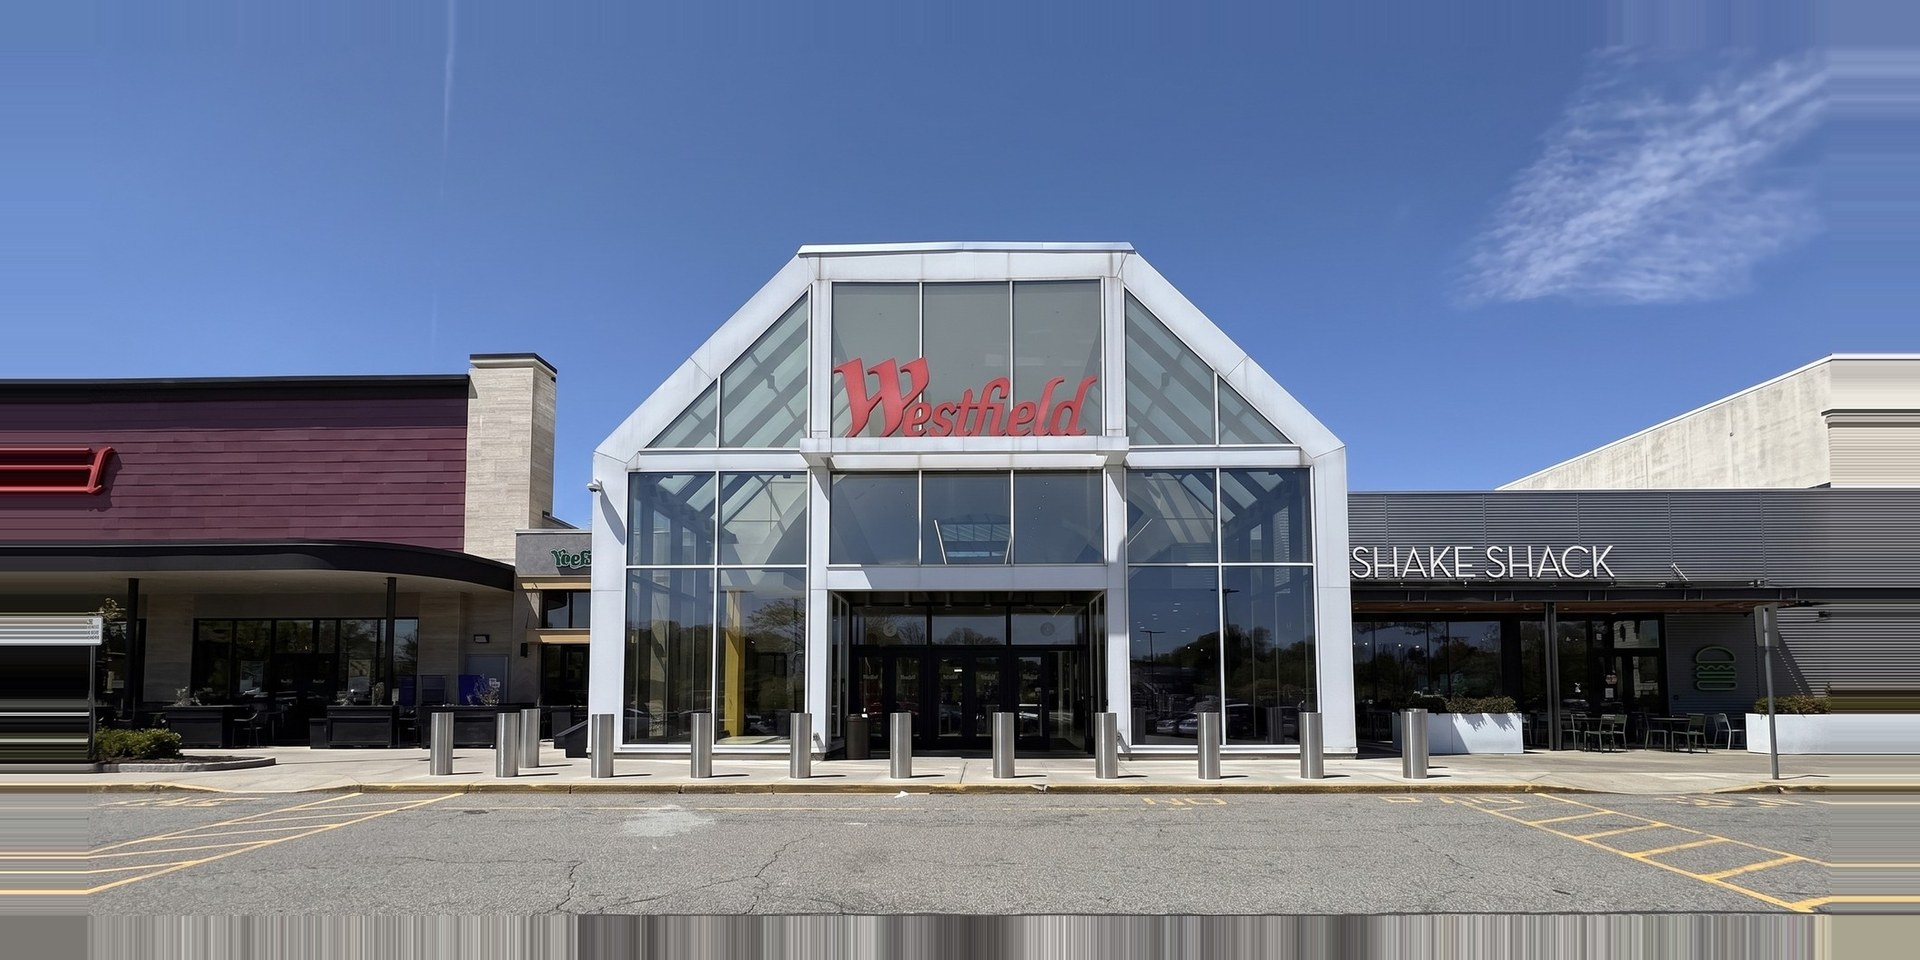
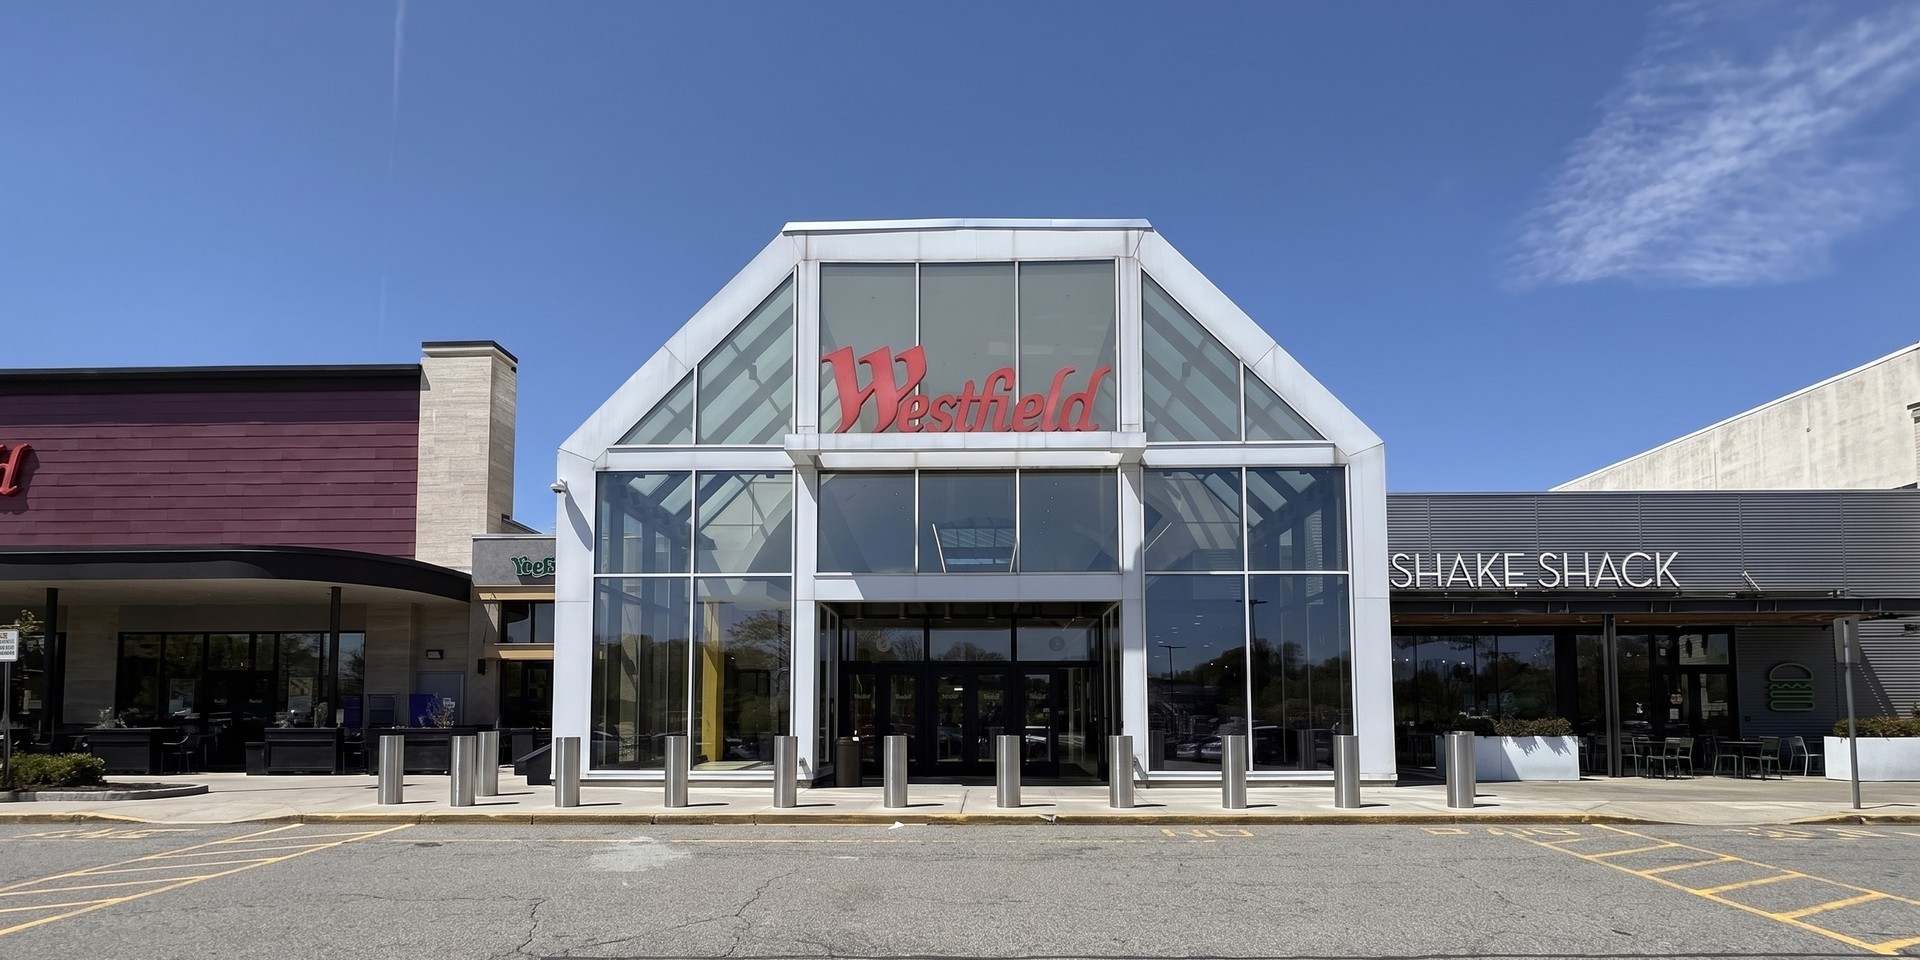
Kill city-hero blur pillarbox; swap Cherry Hill; scrub $1.4M hail mock
Joe 2026-09-29 ~8:14 AM ET screenshots: smudged hero sides on CH/Philly/TT/WC,
bad Cherry Hill municipal office, and $1.4M hail board still on live PA (sitewide).

- bake_city_hero_establishing.py: true cover crop only (no Gaussian blur-fill)
- Cherry Hill hero → South Jersey residential suburb (?v=cover1)
- Rebake Philly/TT/WC/Englewood/Hackensack/Paramus edge-to-edge cover
- Mock hail audit: zero HTML/JS $1.4M hail refs; rotators approved-v09/v03/v01 only
- Archive leftover orig-style-fire-1.4m assets from active settlement-mocks
- STATUS-HAIL-HERO-20260929.md notes live HubSpot 8-page hail hits (CMS auth 401)

diff --git a/locations/paramus.html b/locations/paramus.html
@@ -507,8 +507,8 @@
 
   <section class="hero" id="heroRotator" aria-label="Paramus public adjusters hero">
     <div class="hero-slides" aria-hidden="true">
-      <img class="is-active" src="paramus/refs/gsp-better-wide-day.jpg?v=soft3" alt="" />
-      <img src="paramus/refs/gsp-better-golden-hour.jpg?v=soft3" alt="" />
+      <img class="is-active" src="paramus/refs/gsp-better-wide-day.jpg?v=cover1" alt="" />
+      <img src="paramus/refs/gsp-better-golden-hour.jpg?v=cover1" alt="" />
     </div>
     <div class="hero-inner">
       <h1>Public Adjusters in <span class="city">Paramus</span></h1>

diff --git a/locations/paramus/index.html b/locations/paramus/index.html
@@ -507,8 +507,8 @@
 
   <section class="hero" id="heroRotator" aria-label="Paramus public adjusters hero">
     <div class="hero-slides" aria-hidden="true">
-      <img class="is-active" src="refs/gsp-better-wide-day.jpg?v=soft3" alt="" />
-      <img src="refs/gsp-better-golden-hour.jpg?v=soft3" alt="" />
+      <img class="is-active" src="refs/gsp-better-wide-day.jpg?v=cover1" alt="" />
+      <img src="refs/gsp-better-golden-hour.jpg?v=cover1" alt="" />
     </div>
     <div class="hero-inner">
       <h1>Public Adjusters in <span class="city">Paramus</span></h1>

diff --git a/locations/philadelphia.html b/locations/philadelphia.html
@@ -476,7 +476,7 @@
     </div>
   </header>
 
-  <section class="hero" style="background-image:url('philadelphia/hero-temp-philly-skyline.jpg?v=soft3')" aria-label="Philadelphia public adjusters hero">
+  <section class="hero" style="background-image:url('philadelphia/hero-temp-philly-skyline.jpg?v=cover1')" aria-label="Philadelphia public adjusters hero">
     <div class="hero-inner">
       <h1>Public Adjusters in <span class="city">Philadelphia</span></h1>
       <p class="hero-sub">Your insurance has an adjuster, so should you!</p>

diff --git a/locations/tarrytown.html b/locations/tarrytown.html
@@ -476,7 +476,7 @@
     </div>
   </header>
 
-  <section class="hero" style="background-image:url('tarrytown/hero-temp-marina-tappan-zee-day.jpg?v=soft3')" aria-label="Tarrytown public adjusters hero">
+  <section class="hero" style="background-image:url('tarrytown/hero-temp-marina-tappan-zee-day.jpg?v=cover1')" aria-label="Tarrytown public adjusters hero">
     <div class="hero-inner">
       <h1>Public Adjusters in <span class="city">Tarrytown</span></h1>
       <p class="hero-sub">Your insurance has an adjuster, so should you!</p>

diff --git a/locations/westchester.html b/locations/westchester.html
@@ -476,7 +476,7 @@
     </div>
   </header>
 
-  <section class="hero" style="background-image:url('westchester/hero-temp-downtown-from-ne.jpg?v=soft3')" aria-label="Westchester public adjusters hero">
+  <section class="hero" style="background-image:url('westchester/hero-temp-downtown-from-ne.jpg?v=cover1')" aria-label="Westchester public adjusters hero">
     <div class="hero-inner">
       <h1>Public Adjusters in <span class="city">Westchester</span></h1>
       <p class="hero-sub">Your insurance has an adjuster, so should you!</p>

diff --git a/locations/englewood.html b/locations/englewood.html
@@ -476,7 +476,7 @@
     </div>
   </header>
 
-  <section class="hero" style="background-image:url('englewood/hero-temp-gwb-englewood-basin.jpg?v=soft3')" aria-label="Englewood public adjusters hero">
+  <section class="hero" style="background-image:url('englewood/hero-temp-gwb-englewood-basin.jpg?v=cover1')" aria-label="Englewood public adjusters hero">
     <div class="hero-inner">
       <h1>Public Adjusters in <span class="city">Englewood</span></h1>
       <p class="hero-sub">Your insurance has an adjuster, so should you!</p>

diff --git a/locations/cherry-hill.html b/locations/cherry-hill.html
@@ -476,7 +476,7 @@
     </div>
   </header>
 
-  <section class="hero" style="background-image:url('cherry-hill/hero-temp-municipal.jpg?v=soft3')" aria-label="Cherry Hill public adjusters hero">
+  <section class="hero" style="background-image:url('cherry-hill/hero-temp-suburb-residential.jpg?v=cover1')" aria-label="Cherry Hill public adjusters hero">
     <div class="hero-inner">
       <h1>Public Adjusters in <span class="city">Cherry Hill</span></h1>
       <p class="hero-sub">Your insurance has an adjuster, so should you!</p>

diff --git a/locations/hackensack.html b/locations/hackensack.html
@@ -474,7 +474,7 @@
     </div>
   </header>
 
-  <section class="hero" style="background-image:url('refs/hero-hackensack-courthouse.jpg?v=soft3')" aria-label="Hackensack public adjusters hero">
+  <section class="hero" style="background-image:url('refs/hero-hackensack-courthouse.jpg?v=cover1')" aria-label="Hackensack public adjusters hero">
     <div class="hero-inner">
       <h1>Public Adjusters in <span class="city">Hackensack</span></h1>
       <p class="hero-sub">Your insurance has an adjuster, so should you!</p>

diff --git a/locations/hackensack/index.html b/locations/hackensack/index.html
@@ -476,7 +476,7 @@
     </div>
   </header>
 
-  <section class="hero" style="background-image:url('refs/hero-hackensack-courthouse.jpg?v=soft3')" aria-label="Hackensack public adjusters hero">
+  <section class="hero" style="background-image:url('refs/hero-hackensack-courthouse.jpg?v=cover1')" aria-label="Hackensack public adjusters hero">
     <div class="hero-inner">
       <h1>Public Adjusters in <span class="city">Hackensack</span></h1>
       <p class="hero-sub">Your insurance has an adjuster, so should you!</p>

diff --git a/locations/tarrytown/index.html b/locations/tarrytown/index.html
@@ -476,7 +476,7 @@
     </div>
   </header>
 
-  <section class="hero" style="background-image:url('hero-temp-marina-tappan-zee-day.jpg?v=soft3')" aria-label="Tarrytown public adjusters hero">
+  <section class="hero" style="background-image:url('hero-temp-marina-tappan-zee-day.jpg?v=cover1')" aria-label="Tarrytown public adjusters hero">
     <div class="hero-inner">
       <h1>Public Adjusters in <span class="city">Tarrytown</span></h1>
       <p class="hero-sub">Your insurance has an adjuster, so should you!</p>

diff --git a/locations/englewood/index.html b/locations/englewood/index.html
@@ -476,7 +476,7 @@
     </div>
   </header>
 
-  <section class="hero" style="background-image:url('hero-temp-gwb-englewood-basin.jpg?v=soft3')" aria-label="Englewood public adjusters hero">
+  <section class="hero" style="background-image:url('hero-temp-gwb-englewood-basin.jpg?v=cover1')" aria-label="Englewood public adjusters hero">
     <div class="hero-inner">
       <h1>Public Adjusters in <span class="city">Englewood</span></h1>
       <p class="hero-sub">Your insurance has an adjuster, so should you!</p>

diff --git a/locations/westchester/index.html b/locations/westchester/index.html
@@ -476,7 +476,7 @@
     </div>
   </header>
 
-  <section class="hero" style="background-image:url('hero-temp-downtown-from-ne.jpg?v=soft3')" aria-label="Westchester public adjusters hero">
+  <section class="hero" style="background-image:url('hero-temp-downtown-from-ne.jpg?v=cover1')" aria-label="Westchester public adjusters hero">
     <div class="hero-inner">
       <h1>Public Adjusters in <span class="city">Westchester</span></h1>
       <p class="hero-sub">Your insurance has an adjuster, so should you!</p>
